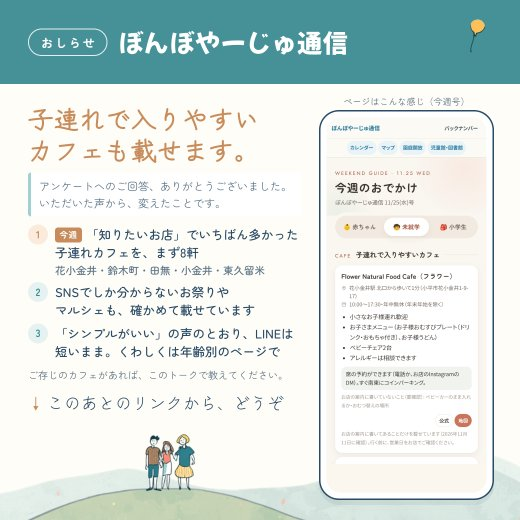
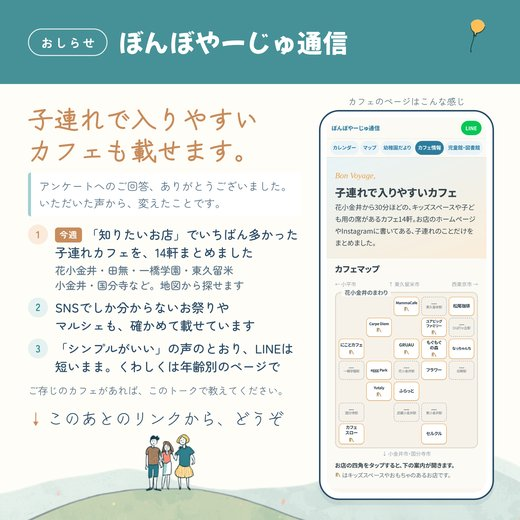
11/25号のカフェ案内画像を14軒版に作り直す（右の画面をカフェ情報のページに）。年齢別ページのカフェ欄の終わりに「14軒すべてを、カフェマップで」
Claude-Session: https://claude.ai/code/session_01TyaNTcqynAhK5RxtQUWRVv

Changed region(s): [[0.6462, 0.1846, 0.9231, 0.9231], [0.0615, 0.4615, 0.5846, 0.8308]]

diff --git a/docs/print/line/cafe-2026-11-25.html b/docs/print/line/cafe-2026-11-25.html
@@ -6,6 +6,8 @@
   ・右の画面は、11/25号の年齢別ページ（未就学）のカフェの欄（見本の日付で組んだもの。カフェの欄は本番と同じ）
   ・2026-11-12 オーナー「アンケートの結果のお返しを、この画像に追記したら」→ 左の列を「いただいた声から、変えたこと」の3つに組み替えた
   ・🔒 作り方（道具・自動化）は書かない。味・雰囲気・「おすすめ」も書かない。「お店の案内で確かめた子連れの条件だけ」＝何をしたか、だけ
+  ・2026-11-23 作り直し（オーナー「作り直してください」）: 8軒→14軒。右の画面を、カフェ情報のページ（/cafe.html・地図とアイコン）に替えた。
+    前の画面は年齢別ページの古い版（上のボタンが「園庭開放」のまま）だった
   ・書き出し: node scripts/make-line-image.mjs docs/print/line/cafe-2026-11-25.html 2026-11-25-cafe
 -->
 <style>
@@ -77,7 +79,7 @@
     <div class="catch">子連れで入りやすい<br>カフェも載せます。</div>
     <p class="voice">アンケートへのご回答、ありがとうございました。いただいた声から、変えたことです。</p>
     <ul class="feat">
-      <li class="new"><span class="dot">1</span><span><span class="newtag">今週</span>「知りたいお店」でいちばん多かった子連れカフェを、まず8軒<span class="sub">花小金井・鈴木町・田無・小金井・東久留米</span></span></li>
+      <li class="new"><span class="dot">1</span><span><span class="newtag">今週</span>「知りたいお店」でいちばん多かった子連れカフェを、14軒まとめました<span class="sub">花小金井・田無・一橋学園・東久留米<br>小金井・国分寺など。地図から探せます</span></span></li>
       <li><span class="dot">2</span><span>SNSでしか分からないお祭りや<br>マルシェも、確かめて載せています</span></li>
       <li><span class="dot">3</span><span>「シンプルがいい」の声のとおり、LINEは短いまま。くわしくは年齢別のページで</span></li>
     </ul>
@@ -85,8 +87,8 @@
     <div class="go"><span class="arr">↓</span>このあとのリンクから、どうぞ</div>
   </div>
 
-  <div class="cap">ページはこんな感じ（今週号）</div>
-  <div class="phone"><div class="screen"><img src="shot-week-2026-11-25-pre.png" alt=""></div></div>
+  <div class="cap">カフェのページはこんな感じ</div>
+  <div class="phone"><div class="screen"><img src="shot-cafe-2026-11-25.png" alt=""></div></div>
 
   <img class="hills" src="../../homepage/assets/art/canva/hills.png" alt="">
   <img class="family" src="../../homepage/assets/art/canva/family-3.png" alt="">

diff --git a/docs/tasks.md b/docs/tasks.md
@@ -81,7 +81,7 @@
 | **最初の協賛が決まったら** | 🔴 カレンダー・AI用一覧・ホームの週末欄にも「PR」／マップの「PR」ピン（未実装）／応援型はチラシに入れる前に市の2課・置き先へ伝える | `docs/sponsor-plan.md` §14 のチェックリスト |
 | 🆕 **11月から（オーナー）** | **協賛の営業を始める**: Notion「🤝 協賛のアポリスト（紹介型・応援型）」の**表「今月とその次（S・A）」の上から**（S は6件: ミュウテック工房・なつやすみ・カルチャースタジオ花・安倍みを子バレエ・ホームメイトFC花小金井店・のま整骨院） | 台本は Notion「🤝 協賛の台本」＝ `docs/sponsor-script.md`、一覧の控えは `docs/sponsor-apo.md`。**応援型は1業種1社＝同じ業種は1社ずつ順番に**。医療は**チラシが先** |
 | ✅ **11/5 決まった（初めての紹介型）** | **ミュウテック工房: 11/18号に紹介型で掲載**（おまかせ）。11/10 夜に紹介文の案を Gmail に下書き（**振込先を入れて送る**） | ✅ **11/11 済**: カードの写真・カレンダーの PR・E236 の起票（11/18 まで出ない）・Threads の投稿案・掲載イメージの画像（`docs/myutec-outreach.md`）。🔴 **オーナー: Gmail の下書きに振込先を入れて送る → 11/13 までに掲載イメージの画像を三浦さんへ** → 11/16 手直し → 11/17 空き確認 → 11/18 掲載 → 振込（`docs/myutec-outreach.md`） |
-| ✅ **11/11 届いた（奥さま）→ 4軒をマップに載せ、ページの枠を作った** 🔴 **オーナー: ふらっと花小金井（@flat_hanakoganei）と GRUAU（@gruau_cafe）の Instagram で、子ども椅子・キッズスペースの記載のスクショ**（あれば年齢別ページにも出せる）。**載せ始めは 12/2号から**（11/11 オーナー「満を持して12月から」）。それまでに Muse に2軒の Instagram と、ほかの候補を探してもらう（依頼文は `docs/prompts/meta-ai-weekly.md`）。いま出せるのは Flower と eggg Park の2軒（`docs/weekly-pages.md`）。✅ **11/12 スクショで確認: 出せるのは7軒**（Flower・eggg Park・ふらっと花小金井・GRUAU・もぐもぐの森・Yutaly One's Cafe・MammaCafe）。🆕 **11/25号で8軒をまとめて出す**（11/12 夕方 なっちゃんち（田無）をプロフィールのスクショで確認して8軒目に。案内画像も「まず8軒」に作り直し済み `assets/line/2026-11-25-cafe.jpg`）。以降は一推しの近く・雨の週に（`docs/weekly-pages.md`） | ~~**子どもと行ったカフェを1軒1行で書き出す**~~（店名・駅・よかったところ＝キッズスペース／ベビーカー／座敷など）→ オーナー経由で Claude に | 11/11号の「雨の日の寄り道」の最初の1〜2軒に使う |
+| ✅ **11/11 届いた（奥さま）→ 4軒をマップに載せ、ページの枠を作った** 🔴 **オーナー: ふらっと花小金井（@flat_hanakoganei）と GRUAU（@gruau_cafe）の Instagram で、子ども椅子・キッズスペースの記載のスクショ**（あれば年齢別ページにも出せる）。**載せ始めは 12/2号から**（11/11 オーナー「満を持して12月から」）。それまでに Muse に2軒の Instagram と、ほかの候補を探してもらう（依頼文は `docs/prompts/meta-ai-weekly.md`）。いま出せるのは Flower と eggg Park の2軒（`docs/weekly-pages.md`）。✅ **11/12 スクショで確認: 出せるのは7軒**（Flower・eggg Park・ふらっと花小金井・GRUAU・もぐもぐの森・Yutaly One's Cafe・MammaCafe）。🆕 **11/25号で8軒をまとめて出す**（11/12 夕方 なっちゃんち（田無）をプロフィールのスクショで確認して8軒目に。案内画像も「まず8軒」に作り直し済み `assets/line/2026-11-25-cafe.jpg`）。🆕 **11/23 カフェ情報のページ（14軒）ができたので、案内画像を14軒版に作り直した**（右の画面をカフェ情報のページに）。以降は一推しの近く・雨の週に（`docs/weekly-pages.md`） | ~~**子どもと行ったカフェを1軒1行で書き出す**~~（店名・駅・よかったところ＝キッズスペース／ベビーカー／座敷など）→ オーナー経由で Claude に | 11/11号の「雨の日の寄り道」の最初の1〜2軒に使う |
 | 🆕 **11/4(水) 10時以降（Claude）** | **立川・吉祥寺・所沢の巡回先の公式URLを確かめて `docs/sources.md` に足す**＋**11/11号の「ちょっと遠出」候補を1件** | 2026-11-03 オーナー決定（CLAUDE.md） |
 | ✅ 11/3（オーナー） | ~~Muse に「さがす場所に、立川・吉祥寺（武蔵野市）・所沢も足して」と送る~~ | **済**。Muse が確認ずみ・11/4 朝の回から。他県の除外も「遠い投稿だけ出さない」に直った |
 | 🆕 **11/4(水) 10時以降（Claude）** | **カフェの「おすそわけ」フォームのスクリプト**（匿名・3問）・**11/11号の前の案内画像**・**Threads の週1回の問いかけの文**・**Muse の指示文に子連れカフェを足す** | フォームはオーナーが通信用アカウントで作り、シートを個人アカウントに共有 |

diff --git a/CLAUDE.md b/CLAUDE.md
@@ -165,7 +165,7 @@ C2. ...
   - 9/23号までは従来の形式
 - 🆕 **子連れで入りやすいカフェを載せる**（2026-11-03 オーナー決定。アンケートで「知りたいお店」1位＝16人中12人）
   1. **書くのは子連れの条件だけ**: キッズスペース／ソファ・座敷／ベビーカー入店／おむつ替え／子どもメニュー／駐車場。店のサイト・Instagram・市の子育てマップに**書いてあることだけ**。無ければ「(要確認)」。**味・雰囲気・「おすすめ」「子連れにやさしい」は書かない**
-  2. **LINE本文には増やさない**（650字のまま）。置くのは**年齢別ページの「子連れで入りやすいカフェ」の欄**と**マップの「☕子連れで入りやすいカフェ」**。🆕 **11/25号で8軒をまとめて出す（本文の前に案内画像 `assets/line/2026-11-25-cafe.jpg`）。以降は、一推しの近くや雨の週に1〜2軒。出し惜しみしない**（2026-11-12 オーナー）。カレンダーは親子イベントなど日付のある催しがあるときだけ。天気の行や年齢別の前置きで「雨ならキッズスペースのあるカフェも」と1行触れるのは可
+  2. **LINE本文には増やさない**（650字のまま）。置くのは**年齢別ページの「子連れで入りやすいカフェ」の欄**と**マップの「☕子連れで入りやすいカフェ」**。🆕 **11/25号で14軒をまとめて出す（年齢別ページには近い8軒＋カフェ情報のページへのリンク。本文の前に案内画像 `assets/line/2026-11-25-cafe.jpg`＝11/23 に14軒版に作り直し）。以降は、一推しの近くや雨の週に1〜2軒。出し惜しみしない**（2026-11-12 オーナー）。カレンダーは親子イベントなど日付のある催しがあるときだけ。天気の行や年齢別の前置きで「雨ならキッズスペースのあるカフェも」と1行触れるのは可
   3. **持っている人から集める**（2026-11-03 オーナー「情報を持っているのは読者・Threadsのフォロワー・妻」）。設備は公式で確かめる。名前は出さず、マップには「読者の方から教えてもらいました」
      - **奥さま**: 子どもと行ったカフェを1軒1行で書き出してもらう（家族で行った店はマップに「実際に行ってよかった場所」と書ける）
      - **読者**: カフェの「おすそわけ」フォーム（匿名・3問。シートは個人アカウントに共有＝Claudeが読める）。入口は年齢別ページの下とマップ、11/11号の前の案内画像。LINEのトークも残す

diff --git a/docs/weekly-pages.md b/docs/weekly-pages.md
@@ -106,8 +106,10 @@
 
 2026-11-03 オーナー決定（`CLAUDE.md`「子連れで入りやすいカフェを載せる」）。アンケートで「知りたいお店」の1位。
 🔴 **11/25号で8軒をまとめて出す**（2026-11-12 オーナー「11/25号でまとめてカフェ出しちゃいましょう。配信前のお知らせ画像も付ける」。11/11 の「12月から」を前倒し。同日夕方に、なっちゃんちを足して8軒）。
-- 11/25号の web json: `"cafes": ["flower", "flat", "gruau", "eggg-park", "mogumogu", "natchanchi", "yutaly", "mammacafe"], "cafesTop": true`（近い順・8軒＝上限）
-- 11/25号の LINE: 本文の前に案内画像 `<!-- line-image: https://bonvoya.nicomaru.tokyo/assets/line/2026-11-25-cafe.jpg -->`（版下 `docs/print/line/cafe-2026-11-25.html`）。年齢別の前置きに「子連れで入りやすいカフェ8軒も」と触れてよい
+- 🆕 **2026-11-23 14軒に**（カフェ情報のページができた。オーナー「名前はカフェのまま、11/25に出す」）。
+- 11/25号の web json: `"cafes": ["flower", "flat", "gruau", "eggg-park", "mogumogu", "carpediem", "natchanchi", "yutaly"], "cafesTop": true`（花小金井駅から近い順の8軒＝上限）。
+  カフェの欄の終わりに「☕ 14軒すべてを、カフェマップで」（`/cafe.html`）が自動で付く（その号は、ページの下の同じリンクは出ない）
+- 11/25号の LINE: 本文の前に案内画像 `<!-- line-image: https://bonvoya.nicomaru.tokyo/assets/line/2026-11-25-cafe.jpg -->`（版下 `docs/print/line/cafe-2026-11-25.html`）。年齢別の前置きに「子連れで入りやすいカフェ14軒も」と触れてよい。画像は 11/23 に14軒版に作り直した（右の画面はカフェ情報のページ）
 - 🆕 **2026-11-23 常設のページ「子連れで入りやすいカフェ」（ナビは「☕ カフェ情報」・`/cafe.html`）**（オーナー「カフェも幼稚園だよりと同じテンションでタブに」）。
   `data/cafes.json` の `pages: true` のお店を全部、カフェマップ（マス目・花小金井のまわり）＋お店ごとのプルダウンで。並びは花小金井駅から近い順。
   `node scripts/build-cafe.mjs`。お店を足すときは `label`（マップの名前・`|` で2行）・`area`（見出しの下の一行）・`geo`（マップのピンと同じ緯度経度）も書く。年齢別ページの下に「☕ 子連れで入りやすいカフェ」のリンク
